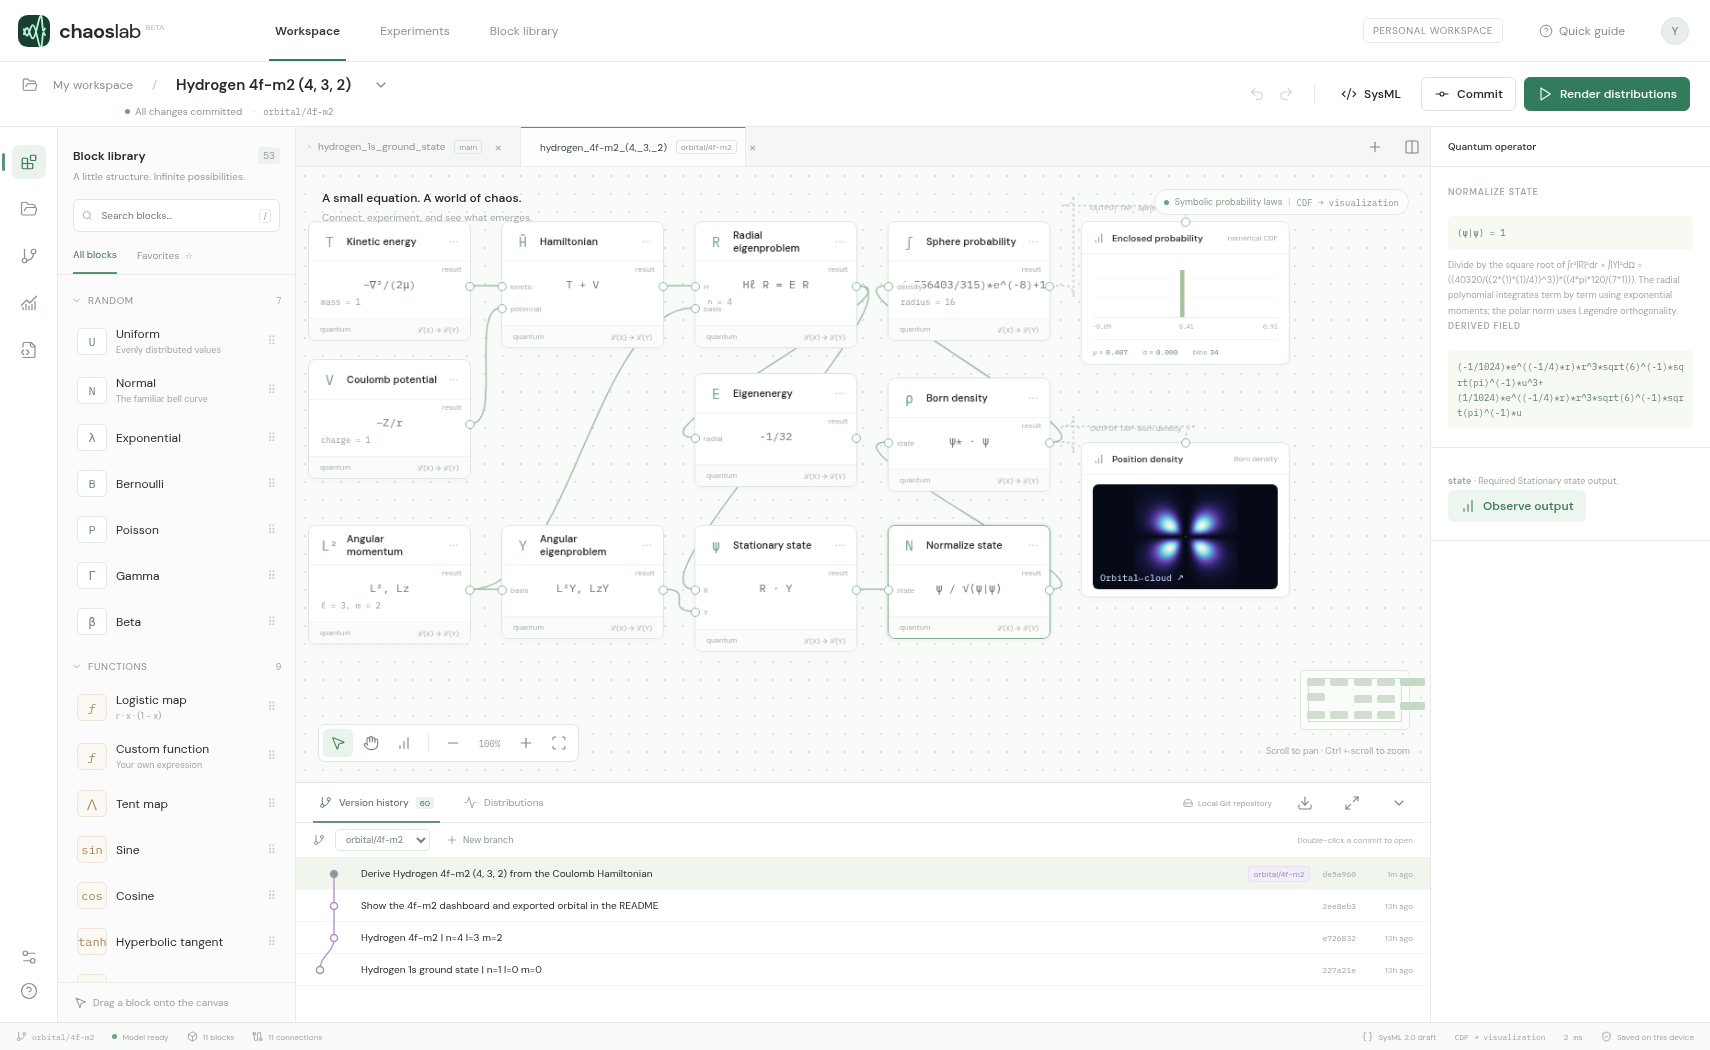
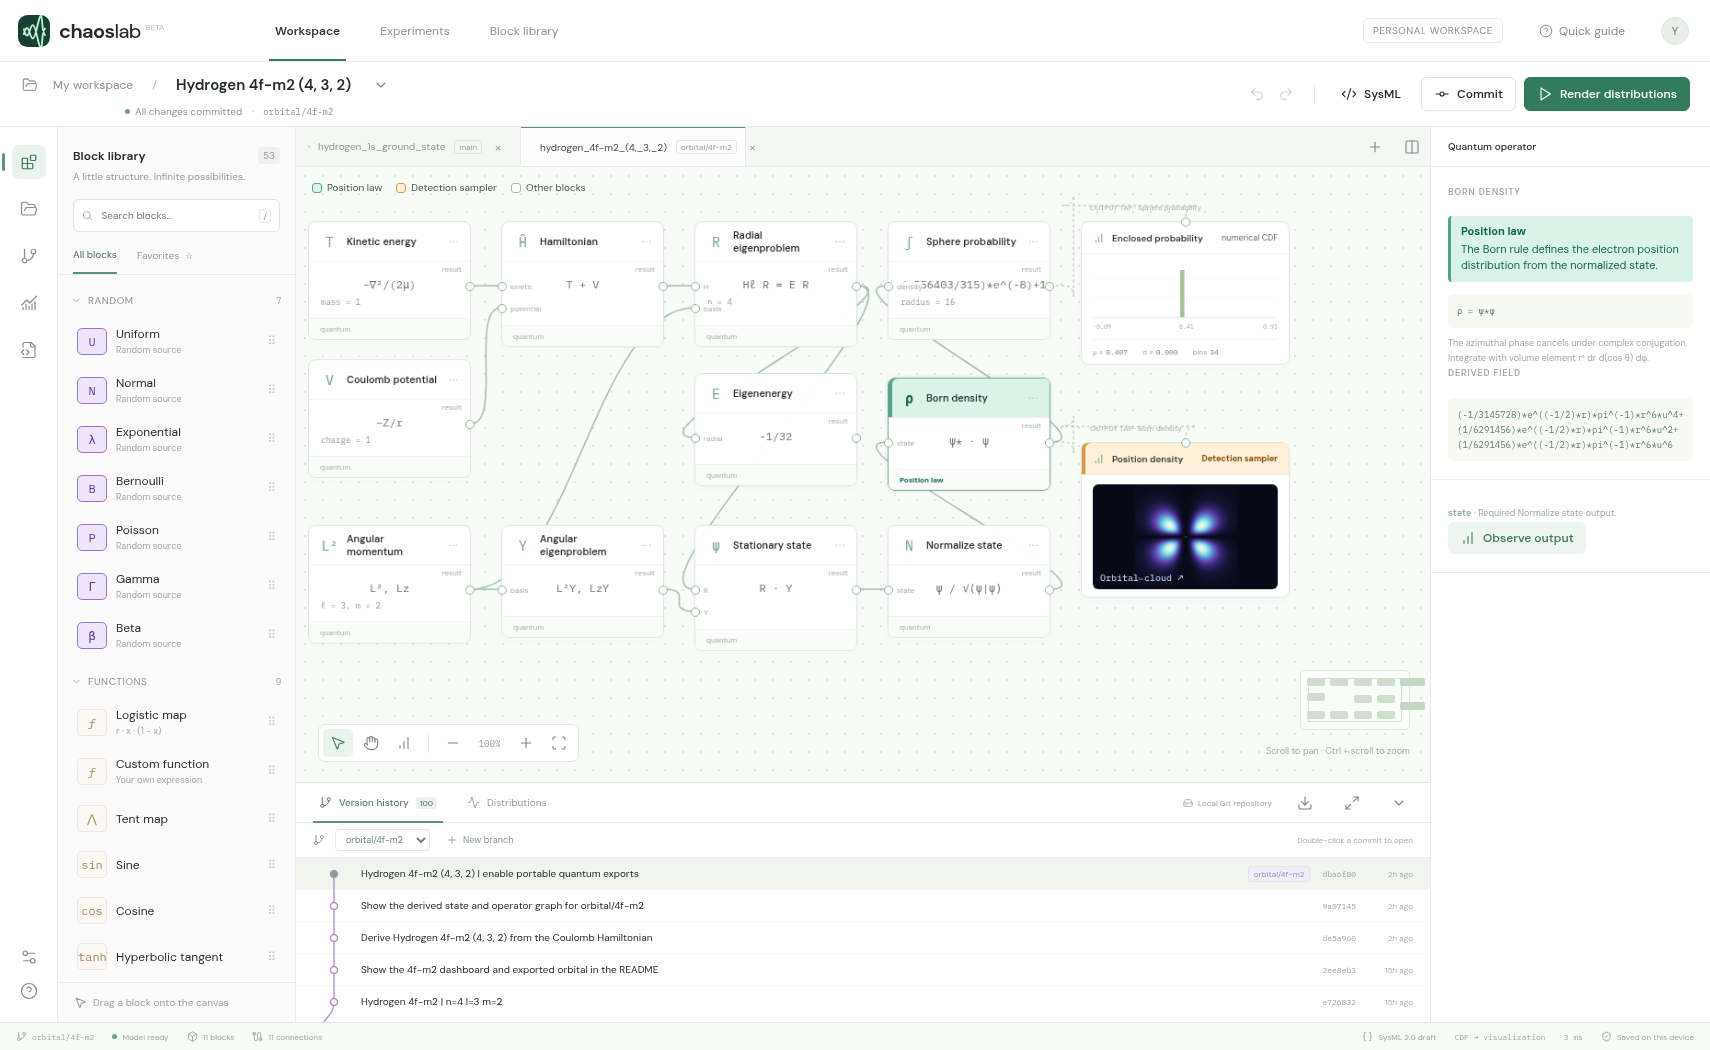
Hydrogen 4f-m2 (4, 3, 2) | identify the position law and detection sampler

diff --git a/studio.py b/studio.py
@@ -10,7 +10,7 @@ import tempfile
 import webbrowser
 
 ROOT = Path(__file__).resolve().parent
-STUDIO_REV = "1cc30c5632f1fe1f79a11ab6730f82c36a6c01e4"
+STUDIO_REV = "8657d6ecd3aa33a5a28f43219d5d6bfb8aa3edcc"
 STUDIO_REPO = "https://github.com/wa200508/chaos_lab.git"
 
 

diff --git a/README.md b/README.md
@@ -6,6 +6,8 @@ Open **Version history** in Chaos Lab to explore the 20 hydrogen designs in this
 
 The connected Hamiltonian and eigenstate solvers give $E=-1/32$ Hartree for this state.
 
+On the canvas, teal **Position law** marks where the Born rule defines the distribution of electron positions. Amber **Detection sampler** marks the tap that draws positions for the projected cloud. The central slice evaluates the density directly.
+
 ![Chaos Lab dashboard with the 4f model, m = 2, open in version history](dashboard.png)
 
 Radial nodes: 0. Polar nodes: 1. Plot half-width: 32 Bohr radii.
